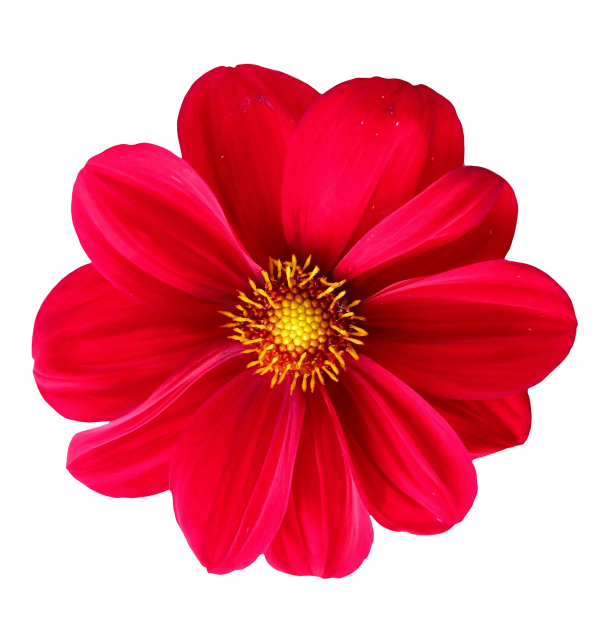
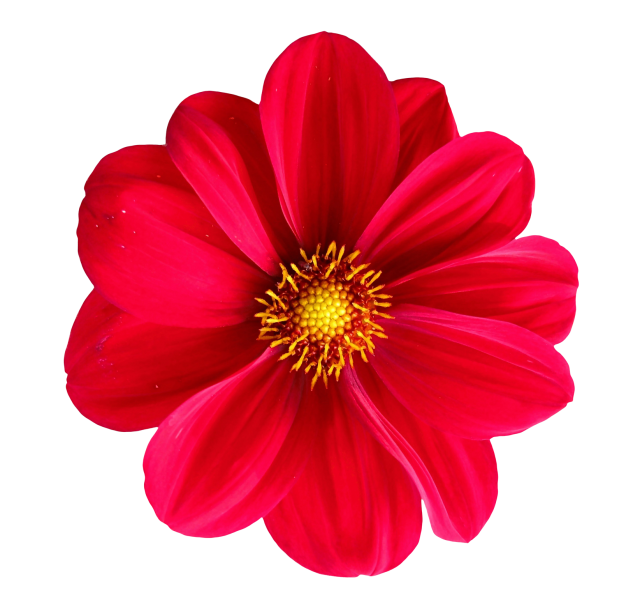
Hero 2: wire in the real flower PNGs, drop SVG placeholders
User dropped 10 photographic flower PNGs (dahlias, camomiles, purple
flowers, etc.) into public/flowers/. Switch Hero 2's FLOWER_IMAGES
to cycle through those filenames so the floating field renders the
actual flowers instead of the bundled SVG placeholders.

Delete flower1.svg … flower5.svg — no longer needed.

diff --git a/src/components/sections/Hero2SaveDate.tsx b/src/components/sections/Hero2SaveDate.tsx
@@ -31,12 +31,20 @@ function pad(value: number, width: number): string {
   return String(value).padStart(width, '0')
 }
 
+// Drop more PNG/JPG files in public/flowers/ and add their filename here
+// to extend the floating field. Order shapes which image appears in which
+// slot — keep a mix so each rising column reads differently.
 const FLOWER_IMAGES = [
-  `${import.meta.env.BASE_URL}flowers/flower1.svg`,
-  `${import.meta.env.BASE_URL}flowers/flower2.svg`,
-  `${import.meta.env.BASE_URL}flowers/flower3.svg`,
-  `${import.meta.env.BASE_URL}flowers/flower4.svg`,
-  `${import.meta.env.BASE_URL}flowers/flower5.svg`,
+  `${import.meta.env.BASE_URL}flowers/Dahlia_x3.png`,
+  `${import.meta.env.BASE_URL}flowers/camomile_x3.png`,
+  `${import.meta.env.BASE_URL}flowers/dahlia_x1.png`,
+  `${import.meta.env.BASE_URL}flowers/flower_x1.png`,
+  `${import.meta.env.BASE_URL}flowers/flower_x3.png`,
+  `${import.meta.env.BASE_URL}flowers/purpel_flower_x3.png`,
+  `${import.meta.env.BASE_URL}flowers/purple_flower_x1.png`,
+  `${import.meta.env.BASE_URL}flowers/purple_flower_x2.png`,
+  `${import.meta.env.BASE_URL}flowers/red_dahlia_x1.png`,
+  `${import.meta.env.BASE_URL}flowers/red_dahlia_x3.png`,
 ]
 
 /**